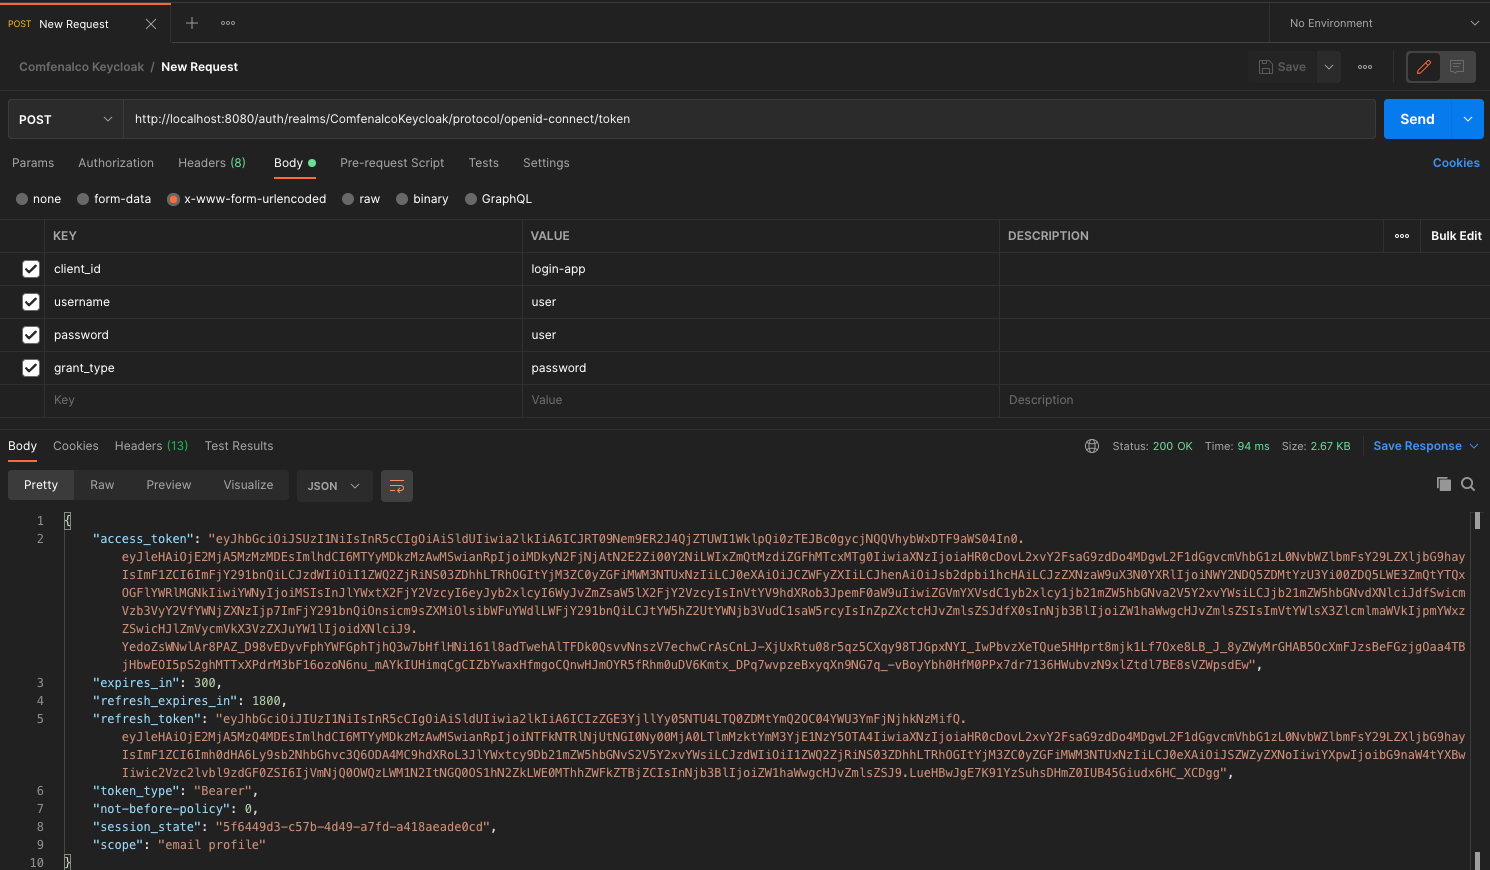
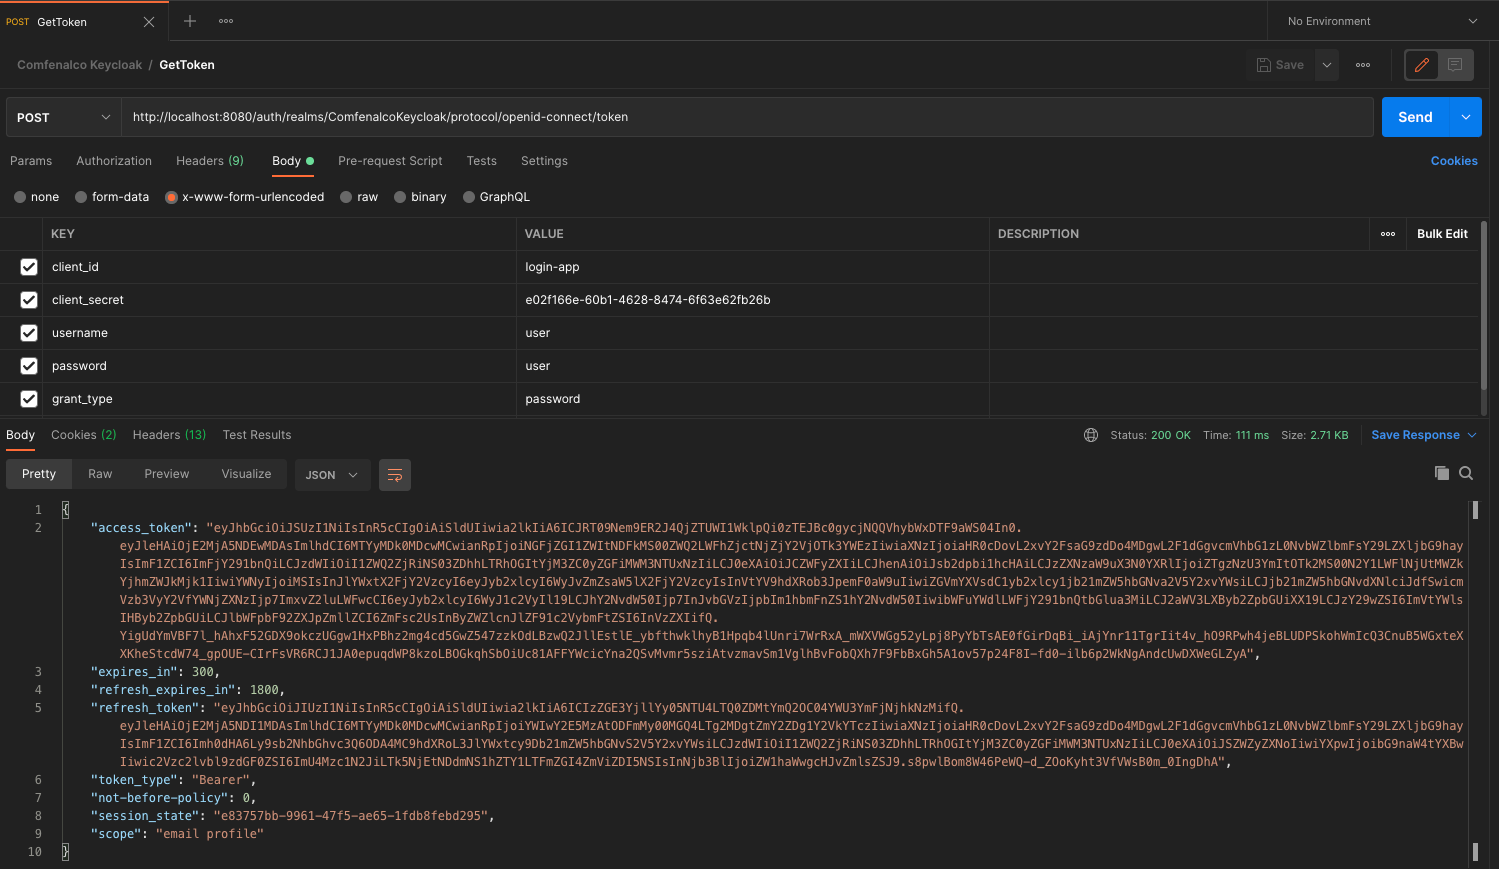
finished

diff --git a/src/main/java/com/security/AuthorizationServer/WebController.java b/src/main/java/com/security/AuthorizationServer/WebController.java
@@ -1,6 +1,5 @@
-package co.comfenalco.AuthorizationServer;
+package com.security.AuthorizationServer;
 
-import javax.annotation.security.RolesAllowed;
 import org.springframework.http.ResponseEntity;
 import org.springframework.web.bind.annotation.RequestMapping;
 import org.springframework.web.bind.annotation.RequestMethod;

diff --git a/src/main/java/com/security/AuthorizationServer/KeycloakSecurityConfig.java b/src/main/java/com/security/AuthorizationServer/KeycloakSecurityConfig.java
@@ -1,4 +1,4 @@
-package co.comfenalco.AuthorizationServer;
+package com.security.AuthorizationServer;
 
 import org.keycloak.adapters.KeycloakConfigResolver;
 import org.keycloak.adapters.springboot.KeycloakSpringBootConfigResolver;

diff --git a/src/main/java/com/security/AuthorizationServer/AuthorizationServerApplication.java b/src/main/java/com/security/AuthorizationServer/AuthorizationServerApplication.java
@@ -1,4 +1,4 @@
-package co.comfenalco.AuthorizationServer;
+package com.security.AuthorizationServer;
 
 import org.springframework.boot.SpringApplication;
 import org.springframework.boot.autoconfigure.SpringBootApplication;

diff --git a/src/test/java/com/security/AuthorizationServer/AuthorizationServerApplicationTests.java b/src/test/java/com/security/AuthorizationServer/AuthorizationServerApplicationTests.java
@@ -1,4 +1,4 @@
-package co.comfenalco.AuthorizationServer;
+package com.security.AuthorizationServer;
 
 import org.junit.jupiter.api.Test;
 import org.springframework.boot.test.context.SpringBootTest;

diff --git a/README.md b/README.md
@@ -21,14 +21,18 @@ Once you download the server:
 1. On left corner click "Clients"
 2. Click add new client
 3. for this project it was "login-app"
-4. Setup is its default, except for the Valid Redirect URIs field. 
-   
-This field should contain the application URL(s) that will use this client for authentication:
-http://localhost:8081/*
+4. Check Authorization Enabled
+5. * Valid Redirect URIs: http://localhost:8081/* (Microservice route here)
+6. In "Credentials Tab" we have the secret (this is useful for further configurations)
+7. In Roles, add two roles: admin and user
 
 **Create Role**
 1. In the left corner select "Roles" then create new role
 2. We created the role "comfenalcouser"
+3. Turn on "Composite Roles"
+4. In Client Roles, check roles; for this i add user role
+
+![img.png](readme_img/userroles.png)
 
 **User**
 1. In the left corner select "Users"
@@ -45,9 +49,7 @@ Check how after realms in the url we are calling our "ComfenalcoKeycloak"
 2. Send the credentials we created before as the image below
 3. In response, we'll get an access_token and a refresh_token.
 
-
 ![img.png](readme_img/gettoken.png)
-
 
 4. The access token should be used in every request to a Keycloak-protected resource by simply placing it in the Authorization header
 
@@ -68,4 +70,12 @@ Keycloak will respond to this with a new access_token and refresh_token.
 **Setup and configuration for Spring Boot Application**
 
 Configuration and setup for application.properties keycloak setup
+
+
 ![img.png](readme_img/propertiesconfig.png)
+
+**For Testing**
+
+1. Generate token with postman
+2. Free Access: http://localhost:8081/test/all-user
+3. Limited Access: http://localhost:8081/test/comfenalco-user
